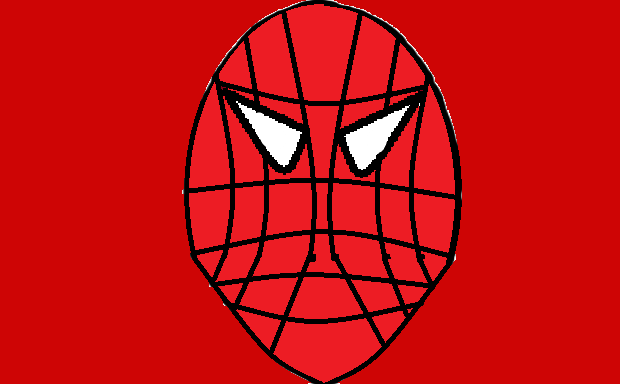
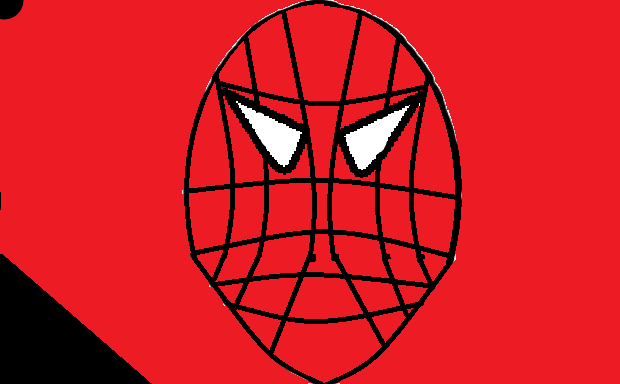
Popdown Design
Improved Pop down window design

diff --git a/src/index.html b/src/index.html
@@ -3,7 +3,7 @@
     <title>Polyester Block Activated</title>
     <style>
         body {
-            background-color: #ce0505;
+            background-image: url("../Images/PopDownBg.png");
             font-family: 'Comic Sans MS', 'Comic Sans', cursive;
             text-align: left;
             padding-top: 50px;
@@ -11,7 +11,7 @@
             width: 125vw;
         }
         h1 {
-            color: #333;
+            color: #ffffff;
             align-items: center;
             margin-left: 100px;
         }
